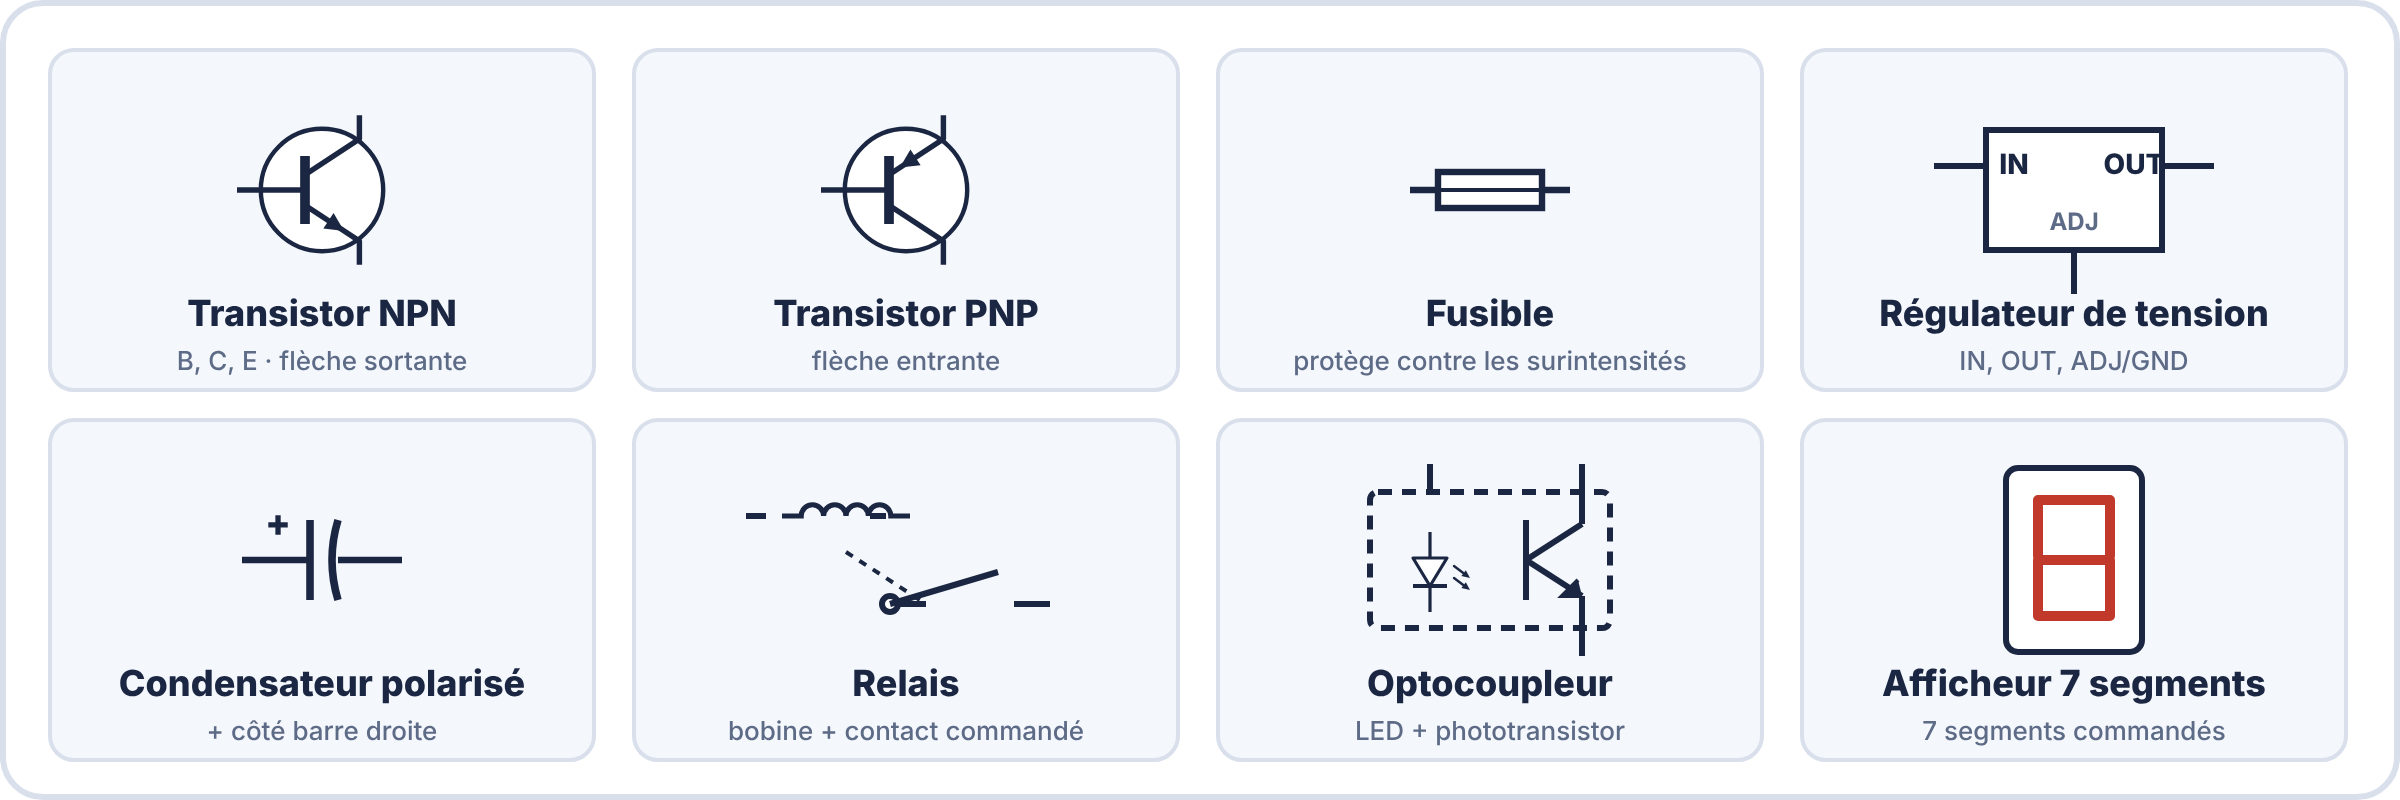
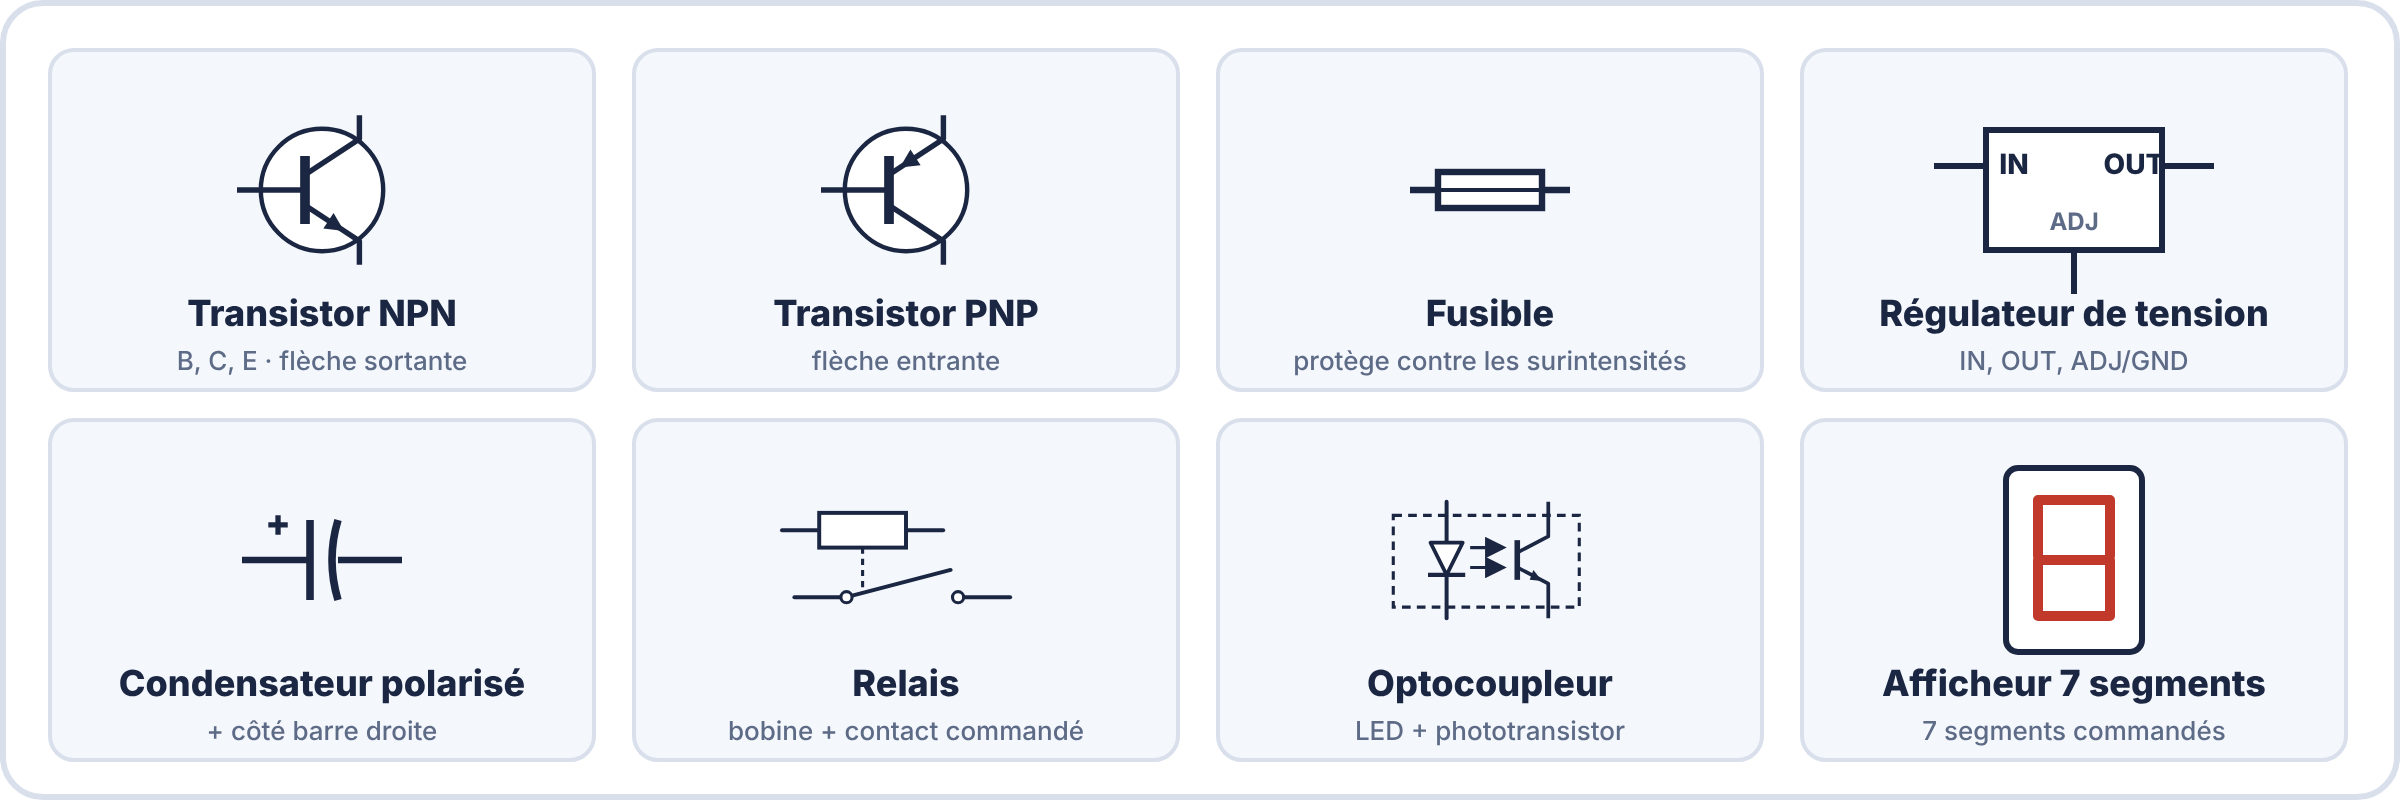
Symboles CEI du relais (bobine rectangle + contact lié par trait mécanique) et de l'optocoupleur (DEL, flèches, phototransistor)
Claude-Session: https://claude.ai/code/session_018Ln2Xo12prChdSPrkdSn9D

Changed region(s): [[0.5625, 0.5938, 0.6875, 0.8125], [0.3438, 0.7188, 0.4375, 0.7812], [0.3125, 0.625, 0.4062, 0.6875]]

diff --git a/outils/illustrations-e2/figs_sym.py b/outils/illustrations-e2/figs_sym.py
@@ -34,17 +34,29 @@ def i_capteur():
 def i_regulateur():
     o = f'<rect x="85" y="14" width="90" height="56" fill="#fff" stroke="{INK}" stroke-width="3.2"/>' + s_wire([(60, 32), (85, 32)]) + s_wire([(175, 32), (200, 32)]) + s_wire([(130, 70), (130, 90)])
     return icon(o + T(95, 38, "IN", 13, 800, INK, "start") + T(165, 38, "OUT", 13, 800, INK, "end") + T(130, 62, "78xx", 15, 800, MUTED) + T(142, 88, "GND", 11, 800, INK, "start"))
-def i_relais():
-    o = s_wire([(40, 50), (62, 50)]) + f'<rect x="62" y="36" width="56" height="28" fill="#fff" stroke="{INK}" stroke-width="3.2"/>' + s_wire([(118, 50), (140, 50)])
-    o += f'<path d="M90,36 V22 H168 V32" stroke="{MUTED}" stroke-width="2.5" stroke-dasharray="5 4" fill="none"/>'
-    o += s_wire([(156, 80), (180, 80)]) + s_wire([(210, 80), (234, 80)]) + s_wire([(180, 80), (206, 56)]) + f'<circle cx="180" cy="80" r="4" fill="#fff" stroke="{INK}" stroke-width="2.5"/><circle cx="210" cy="80" r="4" fill="#fff" stroke="{INK}" stroke-width="2.5"/>'
-    return icon(o)
-def i_opto():
-    o = f'<rect x="50" y="10" width="160" height="80" fill="none" stroke="{INK}" stroke-width="2.5" stroke-dasharray="7 5"/>'
-    o += g(105, 50, '<path d="M0,-22 V22" stroke="#1b2742" stroke-width="3.5"/><path d="M0,-18 L0,18 L-22,0Z" fill="none" stroke="#1b2742" stroke-width="0"/><path d="M-20,-18 L-20,18 L0,0 Z" fill="#fff" stroke="#1b2742" stroke-width="3" transform="rotate(0)"/>', 0.9)
-    o += f'<path d="M122,38 L140,28 M122,52 L140,42" stroke="{INK}" stroke-width="2.5" marker-end="url(#arr)"/>'
-    o += g(170, 50, f'<path d="M-4,-18 V18" stroke="{INK}" stroke-width="4"/><path d="M-4,-8 L16,-20 M-4,8 L16,20" stroke="{INK}" stroke-width="3"/><path d="M12,16 L4,15 L9,8Z" fill="{INK}"/>', 1)
-    return icon(o)
+def relais_body():
+    """Relais CEI : bobine (rectangle) + contact commandé, liés par un trait mécanique en pointillés."""
+    o = s_wire([(30, 26), (60, 26)]) + s_wire([(130, 26), (160, 26)])
+    o += f'<rect x="60" y="12" width="70" height="28" fill="#fff" stroke="{INK}" stroke-width="3.2"/>'
+    o += s_wire([(40, 80), (82, 80)]) + s_wire([(172, 80), (214, 80)])
+    o += f'<path d="M82,80 L166,58" stroke="{INK}" stroke-width="3.2" stroke-linecap="round"/>'
+    o += f'<path d="M95,40 V74" stroke="{INK}" stroke-width="2.5" stroke-dasharray="5 4" fill="none"/>'
+    o += f'<circle cx="82" cy="80" r="4.5" fill="#fff" stroke="{INK}" stroke-width="2.5"/><circle cx="172" cy="80" r="4.5" fill="#fff" stroke="{INK}" stroke-width="2.5"/>'
+    return o
+def opto_body():
+    """Optocoupleur CEI : LED (anode en haut) + phototransistor NPN (sans base), dans un cadre en pointillés."""
+    o = f'<rect x="52" y="14" width="150" height="74" fill="none" stroke="{INK}" stroke-width="2.5" stroke-dasharray="7 5"/>'
+    # LED
+    o += s_wire([(95, 3), (95, 36)]) + s_wire([(95, 62), (95, 97)])
+    o += f'<path d="M82,36 H108 L95,62 Z" fill="#fff" stroke="{INK}" stroke-width="3" stroke-linejoin="round"/><path d="M80,62 H110" stroke="{INK}" stroke-width="3.5"/>'
+    # rayonnement LED -> base
+    o += f'<path d="M114,40 H140" stroke="{INK}" stroke-width="2.5" marker-end="url(#arr)"/><path d="M114,56 H140" stroke="{INK}" stroke-width="2.5" marker-end="url(#arr)"/>'
+    # phototransistor
+    o += f'<path d="M152,34 V66" stroke="{INK}" stroke-width="4.5"/><path d="M152,44 L177,31 V3 M152,56 L177,69 V97" fill="none" stroke="{INK}" stroke-width="3" stroke-linejoin="round"/>'
+    o += f'<path d="M172,67 L162,66 L165,58 Z" fill="{INK}"/>'
+    return o
+def i_relais(): return icon(relais_body())
+def i_opto(): return icon(opto_body())
 
 
 ICONS = {

diff --git a/outils/illustrations-e2/figs_sec6.py b/outils/illustrations-e2/figs_sec6.py
@@ -1,5 +1,6 @@
 """Seconde S05 et S06 : figures manquantes."""
 from hl import *
+from figs_sym import relais_body, opto_body
 import math
 
 
@@ -118,8 +119,8 @@ def f_sym_avances():
     o = ""
     cells = [(npn(0, 0, 0.85), "Transistor NPN", "B, C, E · flèche sortante"), (npn(0, 0, 0.85, "pnp"), "Transistor PNP", "flèche entrante"), (sym("FUSE", 0, 0), "Fusible", "protège contre les surintensités"),
              ('<rect x="-44" y="-30" width="88" height="60" fill="#fff" stroke="#1b2742" stroke-width="3"/><path d="M-70,-12 H-44 M44,-12 H70 M0,30 V52" stroke="#1b2742" stroke-width="3"/>' + T(-30, -8, "IN", 14, 800) + T(30, -8, "OUT", 14, 800) + T(0, 20, "ADJ", 12, 700, MUTED, extra=""), "Régulateur de tension", "IN, OUT, ADJ/GND"),
-             (sym("CP", 0, 0), "Condensateur polarisé", "+ côté barre droite"), ('<circle cx="-30" cy="0" r="0"/>' + sym("L", -30, -22, s=.8) + '<path d="M10,22 H-8 M54,22 H72" stroke="#1b2742" stroke-width="3"/><circle cx="-8" cy="22" r="4" fill="#fff" stroke="#1b2742" stroke-width="3"/><path d="M-8,22 L46,6" stroke="#1b2742" stroke-width="3"/><path d="M-30,-4 V8 M-16,8 V-4" stroke="none"/><path d="M-80,-22 H-70 M-18,-22 H-10" stroke="#1b2742" stroke-width="3"/><path d="M-30,-4 L10,22" stroke="#1b2742" stroke-width="2" stroke-dasharray="4 4"/>', "Relais", "bobine + contact commandé"),
-             ('<rect x="-60" y="-34" width="120" height="68" rx="4" fill="none" stroke="#1b2742" stroke-width="3" stroke-dasharray="7 5"/>' + sym("LED", -30, 6, rot=90, s=.5) + '<path d="M18,-20 V20 M18,0 L46,-18 M18,0 L46,18" stroke="#1b2742" stroke-width="3"/><path d="M46,18 l-10,0 l8,-8" fill="#1b2742" stroke="#1b2742" stroke-width="2"/><path d="M-30,-34 V-48 M46,-18 V-48 M46,18 V48" stroke="#1b2742" stroke-width="3"/>', "Optocoupleur", "LED + phototransistor"),
+             (sym("CP", 0, 0), "Condensateur polarisé", "+ côté barre droite"), (g(0, 0, g(-130, -50, relais_body(), 1), 0.62), "Relais", "bobine + contact commandé"),
+             (g(0, 0, g(-130, -50, opto_body(), 1), 0.62), "Optocoupleur", "LED + phototransistor"),
              ('<rect x="-34" y="-46" width="68" height="92" rx="6" fill="#fff" stroke="#1b2742" stroke-width="3"/><path d="M-18,-30 H18 M-18,-30 V-2 M18,-30 V-2 M-18,0 H18 M-18,0 V28 M18,0 V28 M-18,28 H18" stroke="#c0392b" stroke-width="5" stroke-linecap="round"/>', "Afficheur 7 segments", "7 segments commandés")]
     for i, (k, n, s) in enumerate(cells):
         x = 25 + (i % 4) * 292; y = 25 + (i // 4) * 185
